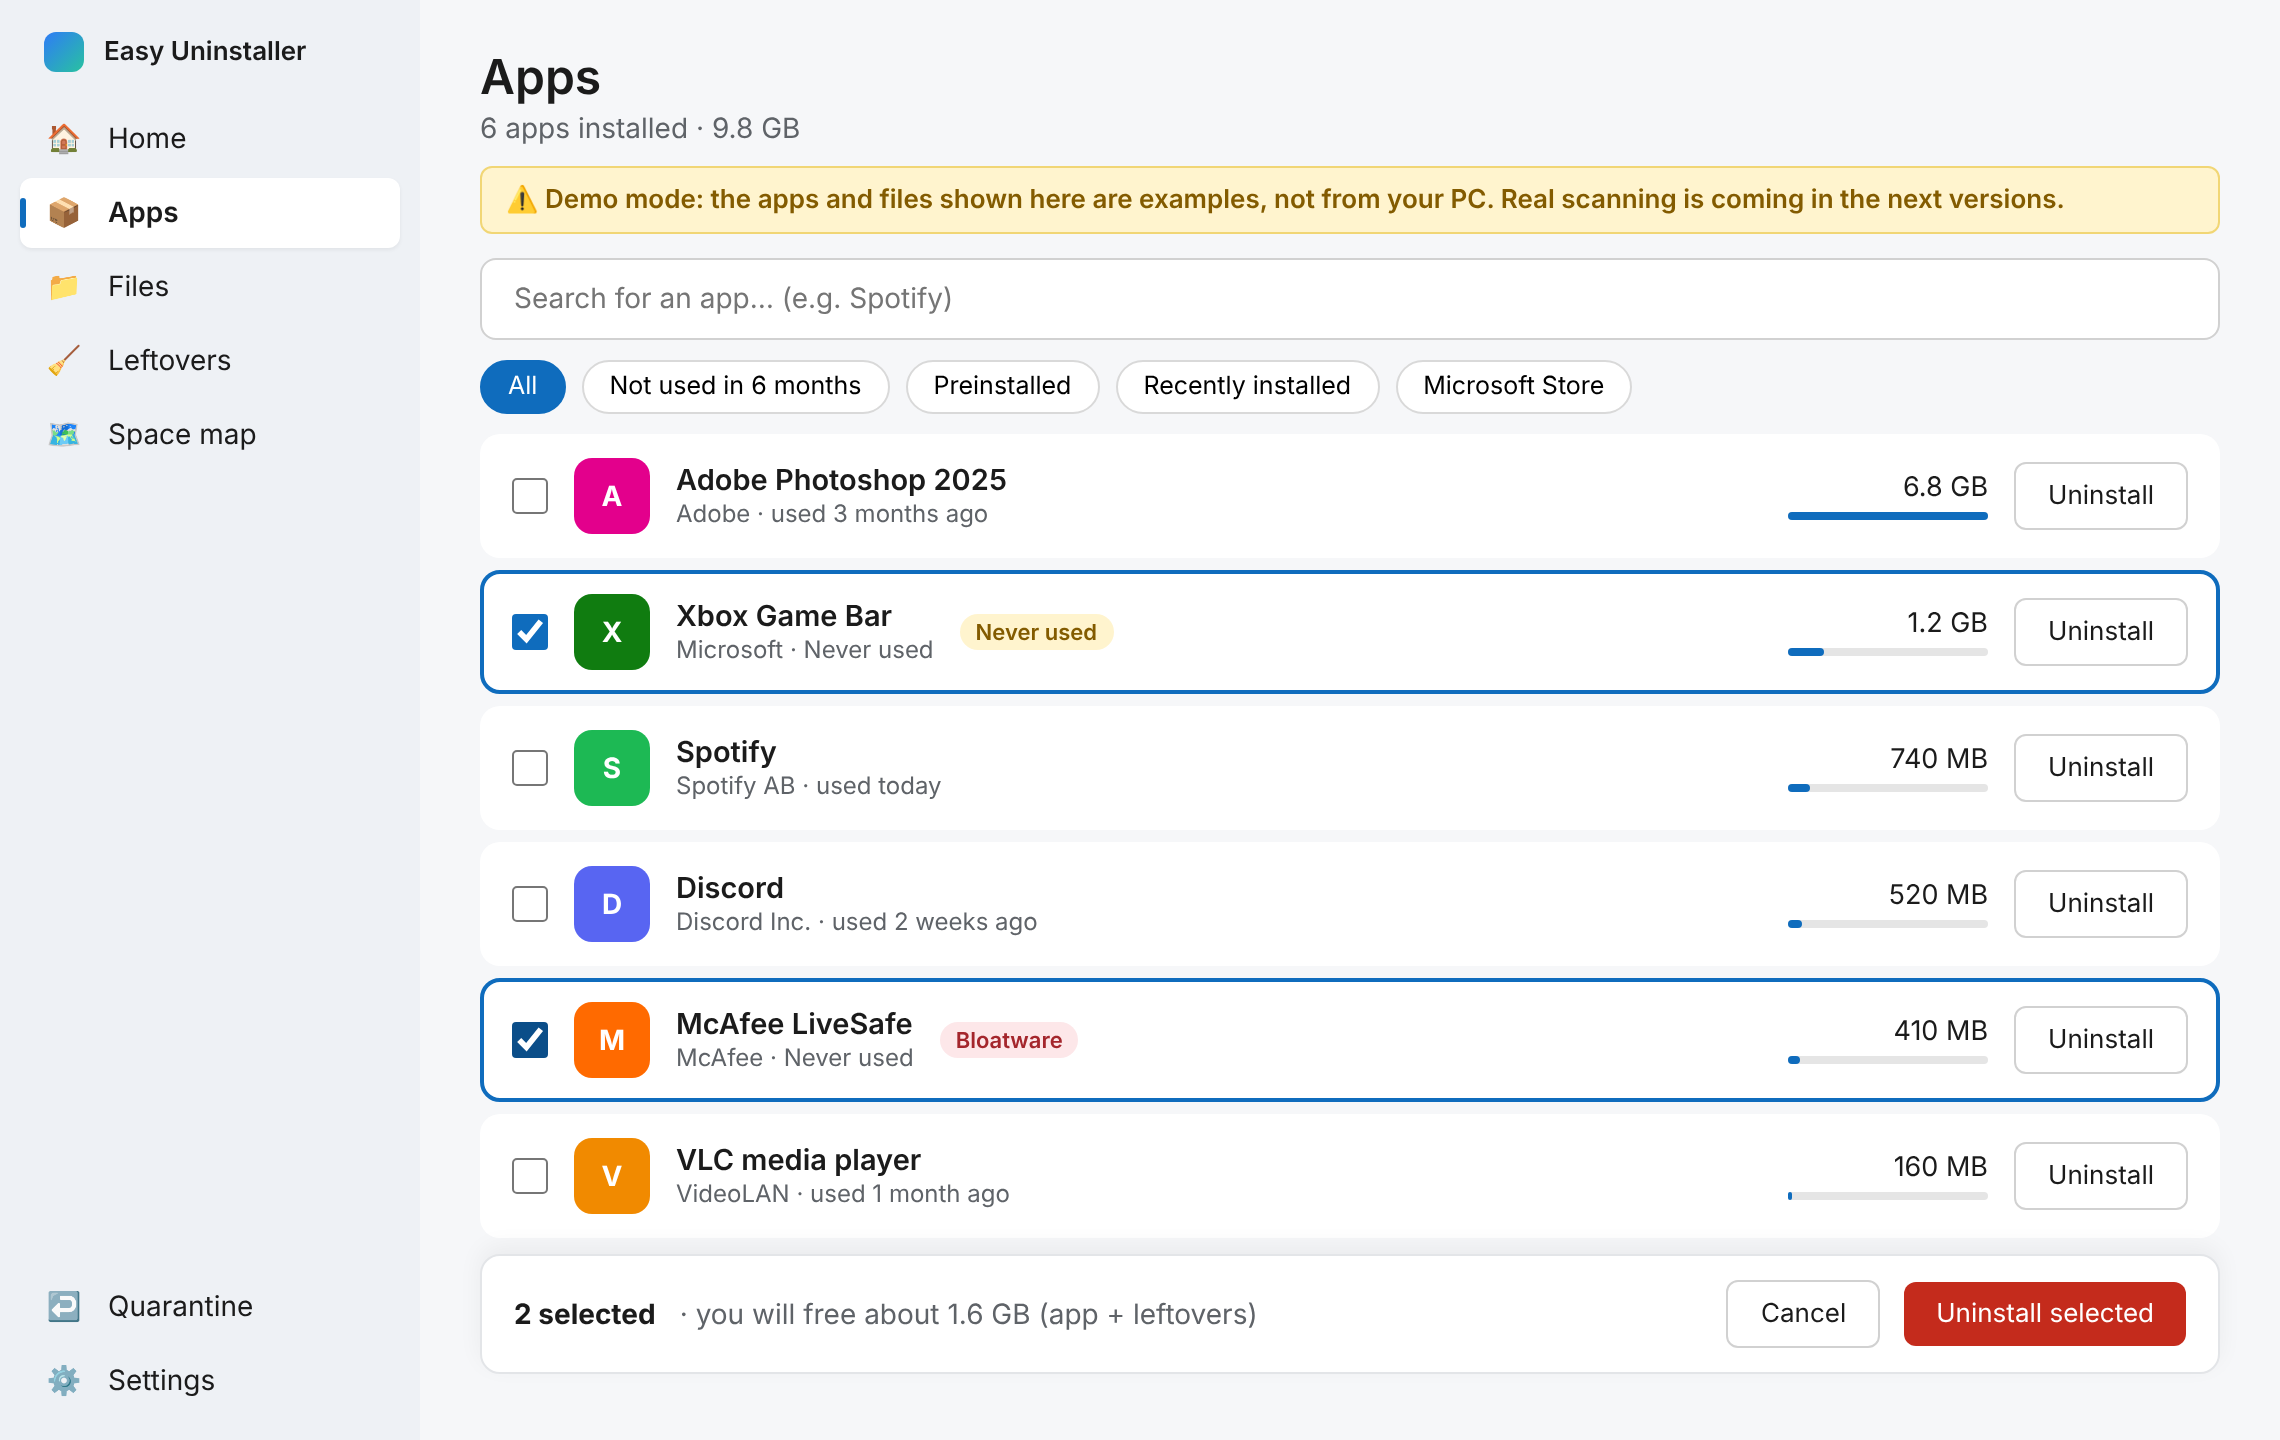
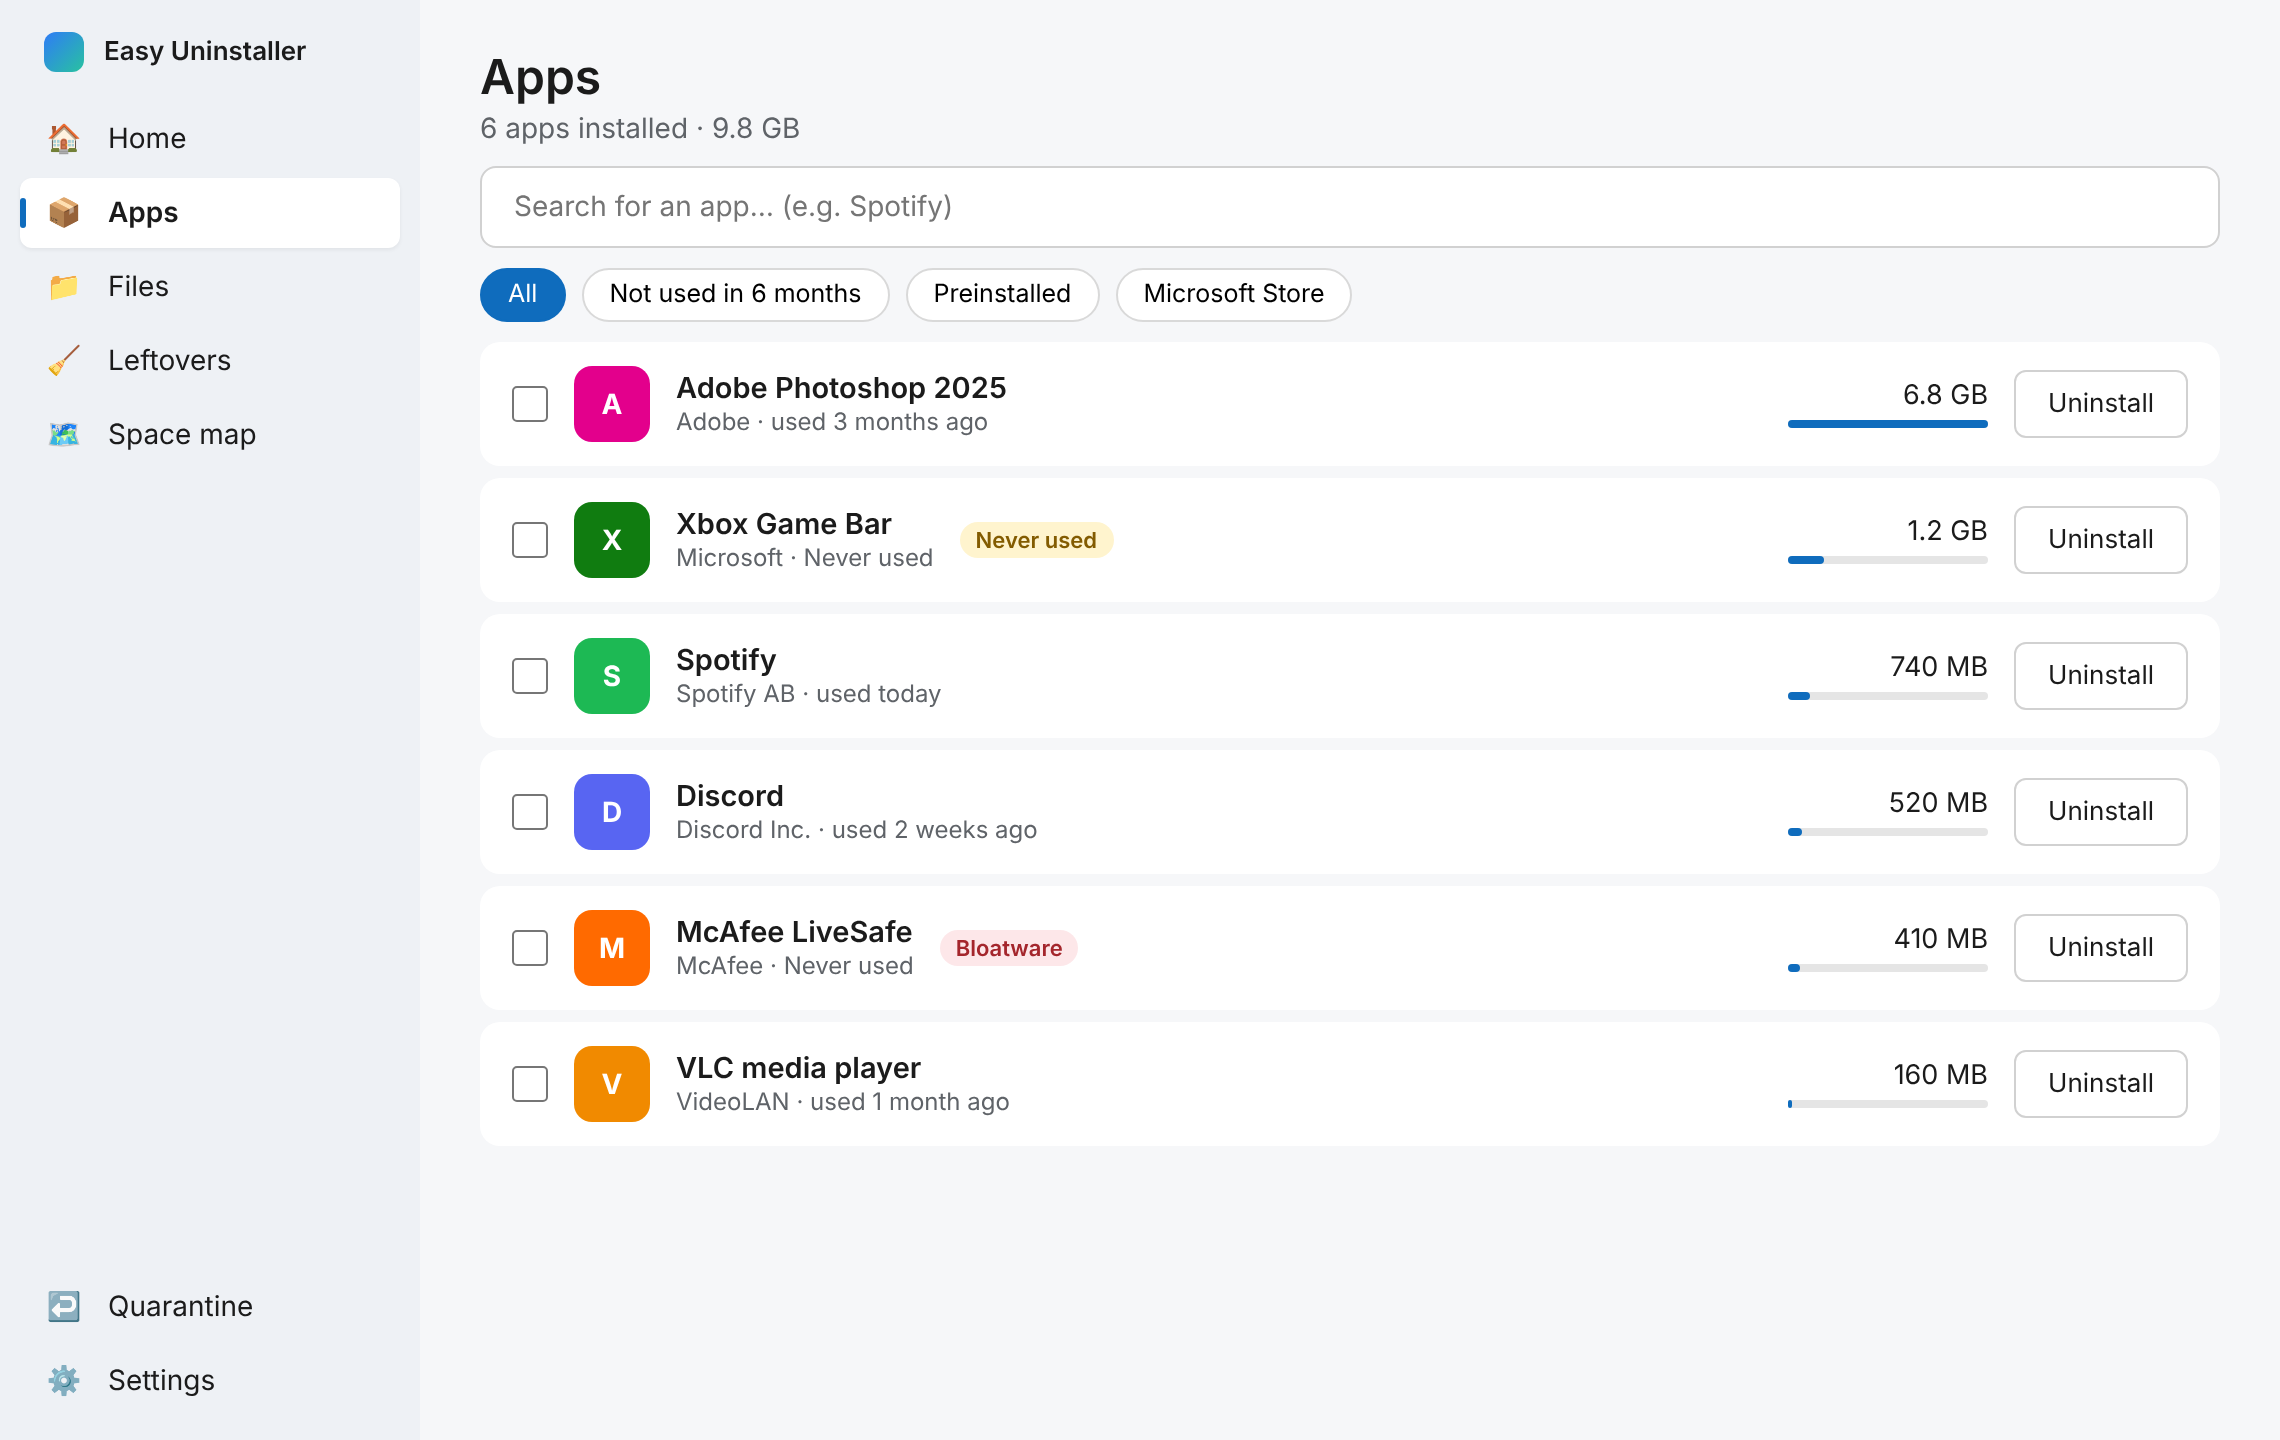
Prepare for public release: README, MIT license, release workflow
- Rewrite the README for users: what the app does, download and install
  (including the SmartScreen warning while unsigned), how files are
  protected by the quarantine, roadmap, how to make a release.
- Retake the README screenshots without the demo banner.
- Add the MIT license and set it in package.json and Cargo.toml; set the
  publisher and copyright shown by Windows.
- Add a Release workflow: a v* tag builds the installer on Windows, checks
  that the tag matches the app version, and attaches the installer and its
  SHA-256 checksum to a draft release. Pull requests that change the
  workflow run it as a dry run.
- Read the version shown in Settings from package.json instead of
  hard-coding it, so releases only need the version set in three files.
- Add docs/code-signing.md comparing the ways to sign the installer.

Claude-Session: https://claude.ai/code/session_01MzT8SU5SdEbGqH596SZvrr

diff --git a/src/lib/screens/Settings.svelte b/src/lib/screens/Settings.svelte
@@ -3,8 +3,8 @@
   import { getLanguage, languages, setLanguage, t, type Language } from "../i18n/index.svelte";
   import { saveSettings, settings } from "../settings.svelte";
   import type { RestorePointOutcome } from "../types";
-
-  const version = "0.1.0";
+  // Only this field ends up in the bundle; the release workflow keeps it in sync with the tag.
+  import { version } from "../../../package.json";
 
   let restorePoint = $state<RestorePointOutcome | "creating" | null>(null);
 

diff --git a/README.md b/README.md
@@ -1,41 +1,90 @@
 # Easy Uninstaller
 
-A lightweight, simple app to uninstall apps and free up space on Windows.
-Built for everyone: plain language, big clear choices, and nothing is ever deleted
-without a way back.
+**Uninstall apps and free up space on Windows, simply and safely.**
 
-![Home](docs/screenshots/home.png)
+Easy Uninstaller is a small, free app for everyone, not just for tech people. It speaks
+plain language, offers a few big clear choices, and never deletes anything without a way
+back: everything it removes waits in a quarantine for 7 days and comes back with one click.
 
-> **Status: early skeleton.** The interface is in place. The disk usage, the list of
-> installed apps and the file scan are real; the other screens still show sample data.
-> See the roadmap below.
+![Easy Uninstaller home screen](docs/screenshots/home.png)
 
-## Principles
+> [!NOTE]
+> **Early preview.** Installed apps, the file scan, the quarantine and restore points are
+> real. Uninstalling apps, the *Leftovers* screen and the *Space map* are still in progress
+> and show sample data for now. See the [roadmap](#roadmap).
 
-- **Simple.** A guided home screen with four choices: Apps, Files, Leftovers, Space map.
-- **Light.** Built with [Tauri 2](https://tauri.app): it uses the WebView2 engine already in
-  Windows, so the installer stays at a few MB instead of 100+ MB.
-- **Safe.** Everything removed goes to a quarantine for 7 days and can be restored with one
-  click. A restore point is created before uninstalling programs.
-- **Clear about risk.** Every file group is labelled *Safe*, *Check* or *Personal*.
-- **English and Italian.** Picked from the system language, changeable in Settings.
+## Why another uninstaller?
 
-## Screens
+- **Simple.** The home screen offers four choices: *Apps*, *Files*, *Leftovers* and
+  *Space map*. No jargon, no settings you have to understand first.
+- **Safe.** Nothing is deleted right away. See [How your files are protected](#how-your-files-are-protected).
+- **Clear about risk.** Every group of files is labelled *Safe*, *Check* or *Personal*,
+  so you know what you are removing before you remove it.
+- **Light.** Built with [Tauri 2](https://tauri.app): it uses the WebView2 engine that is
+  already part of Windows, so the installer is a few MB instead of 100+ MB.
+- **Private.** It works entirely on your PC. No account, no ads, no tracking.
+- **English and Italian.** Picked from your system language, changeable in Settings.
 
-| Home | Apps | Files | Space map |
-|---|---|---|---|
-| ![](docs/screenshots/home.png) | ![](docs/screenshots/apps.png) | ![](docs/screenshots/files.png) | ![](docs/screenshots/map.png) |
+## Screenshots
 
-The original design mockups are in [`docs/design`](docs/design).
+| Apps | Files |
+|---|---|
+| ![Apps screen: installed programs and Store apps, sorted by size](docs/screenshots/apps.png) | ![Files screen: groups of files labelled Safe or Check](docs/screenshots/files.png) |
+| **Quarantine** | **Space map** |
+| ![Quarantine screen: removed items with Restore buttons](docs/screenshots/quarantine.png) | ![Space map: what takes up the most space](docs/screenshots/map.png) |
+
+<sub>Screenshots use sample data.</sub>
+
+## Download and install
+
+1. Open the [latest release](../../releases/latest) and download
+   `EasyUninstaller-<version>-setup.exe`.
+2. Run it. It installs for your user only, so it does not ask for administrator rights.
+3. Requirements: Windows 10 or 11 (64-bit). If the WebView2 runtime is missing (rare on
+   Windows 10, never on Windows 11), the installer downloads it for you.
+
+> [!IMPORTANT]
+> The installer is **not code-signed yet**, so Windows SmartScreen may say *"Windows
+> protected your PC"*. Click **More info**, then **Run anyway**. Signing is planned before
+> the first stable release. Each release lists the SHA-256 checksum of the installer, so you
+> can check that the file you downloaded is the one built here.
+
+To uninstall Easy Uninstaller itself, use *Settings > Apps > Installed apps* in Windows,
+like any other program.
+
+## How your files are protected
+
+Safety is the first goal of this project, ahead of features and speed.
+
+- **Scans only read.** Looking for apps and files never changes anything on your PC.
+- **Moved, never deleted.** When you remove files, they are moved into a quarantine
+  folder (`%LOCALAPPDATA%\com.rccrd12.easyuninstaller\Quarantine`) together with a list
+  of where each one came from.
+- **7 days to change your mind.** Everything in quarantine can be restored to its
+  original place with one click, or deleted earlier if you want the space back now.
+  After 7 days it is deleted for good.
+- **Undo right away.** After moving files, an *Undo* button puts them back immediately.
+- **No surprises.** A file that changed after the scan is left where it is. If a move is
+  interrupted (for example, a power cut), the files already moved can still be restored.
+- **Restore points for programs.** Before uninstalling programs, the app can create a
+  Windows restore point (it asks for permission, since Windows requires administrator
+  rights for this). You can turn it off in Settings.
+- **Personal files are never pre-selected.** Groups labelled *Check* or *Personal* are
+  only removed if you tick them yourself.
+
+Found a problem that could put someone's files at risk? Please open an issue, or contact the
+maintainer privately for anything sensitive.
 
 ## Roadmap
 
 1. ✅ App skeleton: sidebar, screens, sample data, Windows CI build
-2. ✅ Installed apps: read Win32/MSI programs from the registry and Store apps (read only)
+2. ✅ Installed apps: Win32/MSI programs from the registry and Microsoft Store apps (read only)
 3. ✅ File scan: temp files, caches, used installers, old downloads, duplicates, large files (read only)
 4. ✅ Quarantine and restore: files are moved, kept 7 days, restorable with one click; Windows restore points
-5. ⬜ Uninstall + leftovers cleanup (after 2 and 4)
-6. ⬜ Space map with real data
+5. ⬜ Uninstall apps, with their leftovers moved to quarantine
+6. ⬜ Leftovers screen with real data
+7. ⬜ Space map with real data
+8. ⬜ Signed installer and first stable release
 
 ## Development
 
@@ -52,7 +101,19 @@ npm run tauri build   # build the Windows installer (src-tauri/target/release/bu
 ```
 
 Every push and pull request is built and tested on Windows by GitHub Actions; the installer
-is attached to the run as an artifact.
+is attached to the run as an artifact. Contributors (and coding agents) should read
+[`CLAUDE.md`](CLAUDE.md) for the project rules and the checks to run before pushing.
+
+### Making a release
+
+1. Set the same version in `package.json`, `src-tauri/Cargo.toml` and
+   `src-tauri/tauri.conf.json`, and merge that to `main`.
+2. Push a tag for it: `git tag v0.2.0 && git push origin v0.2.0`.
+3. The [Release workflow](.github/workflows/release.yml) builds the installer on Windows and
+   creates a **draft** release with the installer and its checksum. Review it on GitHub and
+   press *Publish*. Tags with a suffix (such as `v0.2.0-beta.1`) become pre-releases.
+
+Code signing options are described in [`docs/code-signing.md`](docs/code-signing.md).
 
 ## Project layout
 
@@ -69,5 +130,11 @@ src-tauri/              backend (Rust)
   src/disk.rs           system drive usage
   src/apps.rs           installed apps: registry (Win32/MSI) and Microsoft Store, with icons
   src/files.rs          file scan: temp, installers, old downloads, duplicates, large files
-docs/                   screenshots and design mockups
+  src/quarantine.rs     moves files to quarantine, restores and expires them
+  src/restore_point.rs  Windows restore points
+docs/                   screenshots, design mockups, code signing notes
 ```
+
+## License
+
+[MIT](LICENSE). You can use, change and share it freely; it comes with no warranty.

diff --git a/docs/code-signing.md b/docs/code-signing.md
@@ -1,0 +1,59 @@
+# Code signing the Windows installer
+
+Without a signature, Windows SmartScreen shows *"Windows protected your PC"* when someone
+runs the installer, and the publisher appears as *Unknown*. For an app that asks people to
+trust it with their files, that warning matters. This page compares the ways to sign it.
+Nothing has been bought or set up yet.
+
+Two facts apply to every option:
+
+- **No certificate removes the warning on day one.** Since 2024, even EV certificates no
+  longer skip SmartScreen. A signed installer builds *reputation* as people download it,
+  and the warning goes away after a while. Signing still helps right away: the publisher
+  name is shown, and the reputation carries over from one release to the next.
+- **The private key can no longer live in a file.** Certificates are issued on a hardware
+  token or in a cloud HSM, so signing in GitHub Actions needs a cloud service.
+
+## Options
+
+| | SignPath Foundation | Certum Open Source | Azure Artifact Signing | Commercial OV/EV certificate |
+|---|---|---|---|---|
+| Cost | Free | About €49 the first year (plus renewal) | $9.99 a month | About €200 to €600 a year |
+| Publisher shown | *SignPath Foundation* | *Open Source Developer, \<your name\>* | Your verified name | Your name or company |
+| Works from GitHub Actions | Yes, official action | Hard: the cloud key is unlocked from a phone app | Yes, official action | Depends on the vendor's cloud HSM |
+| Available to an individual in Italy | Yes, for open source projects | Yes | No: individuals only in the US and Canada; EU only for registered organizations | Yes |
+| Main requirement | Public repo, OSI license, a "Code signing policy" section, every release approved in SignPath | Identity check with an ID document | Registered business in the EU | Identity check, sometimes a business |
+
+Prices and rules change; check the provider's page before deciding.
+
+## Recommendation
+
+1. **SignPath Foundation** once the repository is public. It is free, it is made for
+   projects like this one, and it plugs into the release workflow. Its conditions are a
+   good fit: MIT license, builds only from GitHub Actions, no telemetry, a clear uninstall.
+   What we would need to add: a "Code signing policy" section in the README naming who
+   approves releases, and multi-factor authentication on GitHub and SignPath. The first
+   release must already be out (unsigned) before applying.
+2. **Certum Open Source** as a fallback if SignPath declines. It shows your own name, but
+   it is awkward to automate, so signing would be a manual step on your PC.
+3. Azure Artifact Signing and commercial certificates only make sense if the project later
+   becomes a registered business.
+
+## How it plugs in
+
+The release workflow (`.github/workflows/release.yml`) has a marked place for signing,
+right after the build and before the checksum. With SignPath, the job uploads the unsigned
+installer as an artifact, calls `signpath/github-action-submit-signing-request`, waits for
+the approval, and attaches the signed file to the draft release. The SignPath API token is
+stored as a repository secret; nothing secret goes in the repository.
+
+The app itself (`easy-uninstaller.exe` inside the installer) should be signed too. Tauri
+can run a custom `signCommand` (in `tauri.conf.json`, `bundle.windows`) for each binary it
+builds; the setup depends on the option chosen.
+
+## Sources
+
+- SignPath Foundation conditions: <https://signpath.org/terms>
+- Certum Open Source Code Signing: <https://shop.certum.eu/open-source-code-signing-on-simplysign.html>
+- Microsoft, code signing options for Windows apps: <https://learn.microsoft.com/en-us/windows/apps/package-and-deploy/code-signing-options>
+- Azure Artifact Signing availability and pricing (January 2026): <https://www.devclass.com/security/2026/01/14/code-signing-windows-apps-may-be-easier-and-more-secure-with-new-azure-artifact-service/4079554>
